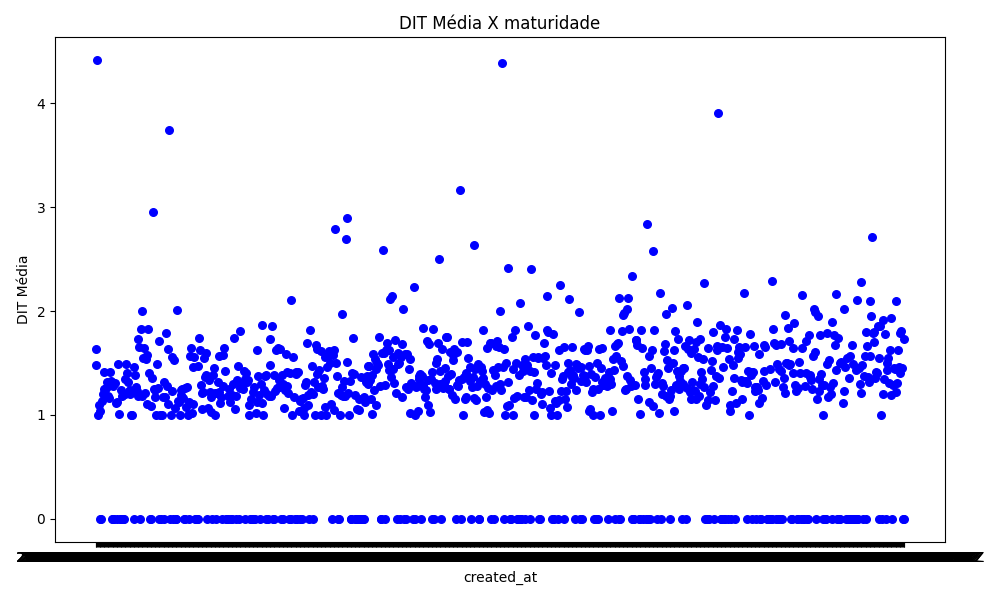
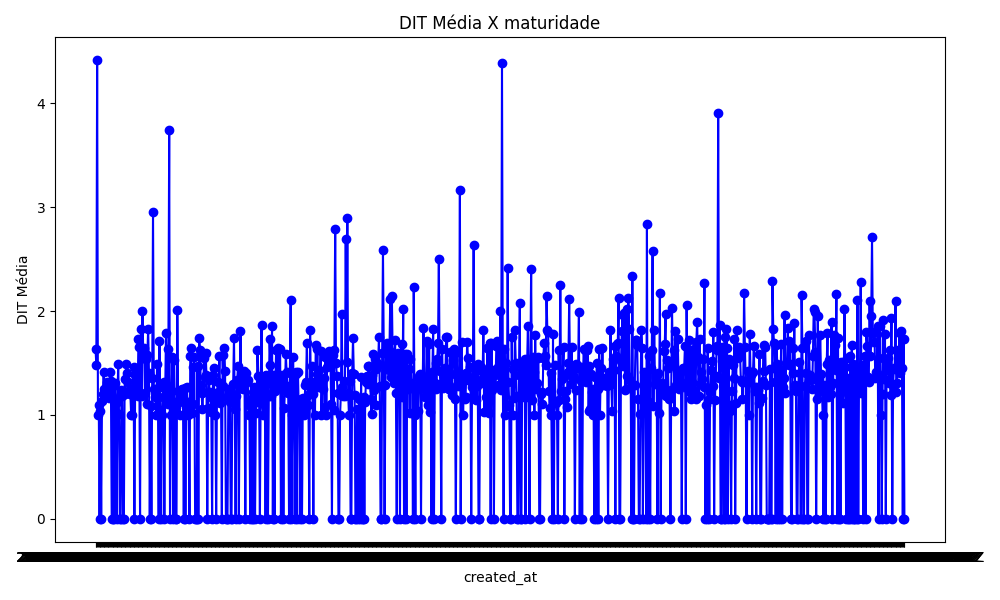
feat: updated graphs

Changed region(s): [[0.093, 0.15, 0.93, 0.87], [0.713, 0.18, 0.744, 0.21], [0.155, 0.21, 0.186, 0.24]]

diff --git a/plot/quality.py b/plot/quality.py
@@ -7,38 +7,30 @@ def quality_created_at(dataframe):
     cbo_media = dataframe['cbo_media']
     dit_media = dataframe['dit_media']
     lcom_media = dataframe['lcom_media']
-    loc_soma = dataframe['loc_soma']
 
-    plt.figure(figsize=(10, 6))
+    plt.figure(figsize=(15, 6))
 
     # cbo_media
-    plt.scatter(created_at, cbo_media, label='CBO Média', color='blue', marker='o', s=30)
+    plt.plot(created_at, cbo_media, label='CBO Média', color='blue')
 
-    plt.title('CBO Média X maturidade')
+    plt.title('Maturidade')
     plt.xlabel('created_at')
     plt.ylabel('CBO Média')
 
-    plt.tight_layout()
-
-    plt.savefig('graphs/cbo_media_maturidade.png')
-    plt.clf()
-
     # dit_media
-    plt.scatter(created_at, dit_media, label='DIT Média', color='blue', marker='o', s=30)
+    plt.plot(created_at, dit_media, label='DIT Média', color='red')
     plt.title('DIT Média X maturidade')
     plt.xlabel('created_at')
     plt.ylabel('DIT Média')
-    plt.tight_layout()
-    plt.savefig('graphs/dit_media_maturidade.png')
-    plt.clf()
 
     # lcom_media
-    plt.scatter(created_at, lcom_media, label='LCOM Média', color='blue', marker='o', s=30)
-    plt.title('LCOM Média X maturidade')
+    plt.plot(created_at, lcom_media, label='LCOM Média', color='green')
     plt.xlabel('created_at')
     plt.ylabel('LCOM Média')
+
+
     plt.tight_layout()
-    plt.savefig('graphs/lcom_media_maturidade.png')
+    plt.savefig('graphs/maturidade.png')
     plt.clf()
 
 def quality_loc(dataframe):
@@ -47,36 +39,30 @@ def quality_loc(dataframe):
     lcom_media = dataframe['lcom_media']
     loc_soma = dataframe['loc_soma']
 
-    plt.figure(figsize=(10, 6))
+    plt.figure(figsize=(15, 6))
 
     # cbo_media
-    plt.scatter(loc_soma, cbo_media, label='CBO Média', color='blue', marker='o', s=30)
+    fig, ax1 = plt.subplots(figsize=(15, 6))
+    ax2 = ax1.twinx()
+    ax3 = ax1.twinx()
 
-    plt.title('CBO Média X Tamanho')
-    plt.xlabel('loc')
-    plt.ylabel('CBO Média')
+    ax1.plot(loc_soma, cbo_media, label='CBO Média', color='blue')
+    ax2.plot(loc_soma, dit_media, label='DIT Média', color='red')
+    ax3.plot(loc_soma, lcom_media, label='LCOM Média', color='green')
+
+    ax1.set_xlabel('loc')
+    ax1.set_ylabel('CBO Média', color='blue')
+    ax2.set_ylabel('DIT Média', color='red')
+    ax3.set_ylabel('LCOM Média', color='green')
+
+    ax1.tick_params(axis='y', labelcolor='blue')
+    ax2.tick_params(axis='y', labelcolor='red')
+    ax3.tick_params(axis='y', labelcolor='green')
+
+    plt.title('CBO Média, DIT Média, LCOM Média X Tamanho')
 
     plt.tight_layout()
-
-    plt.savefig('graphs/cbo_media_tamanho.png')
-    plt.clf()
-
-    # dit_media
-    plt.scatter(loc_soma, dit_media, label='DIT Média', color='blue', marker='o', s=30)
-    plt.title('DIT Média X maturidade')
-    plt.xlabel('loc')
-    plt.ylabel('DIT Média')
-    plt.tight_layout()
-    plt.savefig('graphs/dit_media_tamanho.png')
-    plt.clf()
-
-    # lcom_media
-    plt.scatter(loc_soma, lcom_media, label='LCOM Média', color='blue', marker='o', s=30)
-    plt.title('LCOM Média X maturidade')
-    plt.xlabel('loc')
-    plt.ylabel('LCOM Média')
-    plt.tight_layout()
-    plt.savefig('graphs/lcom_media_tamanho.png')
+    plt.savefig('graphs/tamanho.png')
     plt.clf()
 
 def quality_releases(dataframe):
@@ -85,12 +71,12 @@ def quality_releases(dataframe):
     lcom_media = dataframe['lcom_media']
     releases = dataframe['releases']
 
-    plt.figure(figsize=(10, 6))
+    plt.figure(figsize=(15, 6))
 
     # cbo_media
-    plt.scatter(releases, cbo_media, label='CBO Média', color='blue', marker='o', s=30)
+    plt.plot(releases, cbo_media, label='CBO Média', color='blue')
 
-    plt.title('CBO Média X maturidade')
+    plt.title('CBO Média X atividade')
     plt.xlabel('releases')
     plt.ylabel('CBO Média')
 
@@ -100,8 +86,8 @@ def quality_releases(dataframe):
     plt.clf()
 
     # dit_media
-    plt.scatter(releases, dit_media, label='DIT Média', color='blue', marker='o', s=30)
-    plt.title('DIT Média X maturidade')
+    plt.plot(releases, dit_media, label='DIT Média', color='blue')
+    plt.title('DIT Média X atividade')
     plt.xlabel('releases')
     plt.ylabel('DIT Média')
     plt.tight_layout()
@@ -109,9 +95,9 @@ def quality_releases(dataframe):
     plt.clf()
 
     # lcom_media
-    plt.scatter(releases, lcom_media, label='LCOM Média', color='blue', marker='o', s=30)
-    plt.title('LCOM Média X maturidade')
-    plt.xlabel('created_at')
+    plt.plot(releases, lcom_media, label='LCOM Média', color='blue')
+    plt.title('LCOM Média X atividade')
+    plt.xlabel('releases')
     plt.ylabel('LCOM Média')
     plt.tight_layout()
     plt.savefig('graphs/lcom_media_releases.png')
@@ -123,12 +109,12 @@ def quality_stars(dataframe):
     dit_media = dataframe['dit_media']
     lcom_media = dataframe['lcom_media']
 
-    plt.figure(figsize=(10, 6))
+    plt.figure(figsize=(15, 6))
 
     # cbo_media
-    plt.scatter(stars, cbo_media, label='CBO Média', color='blue', marker='o', s=30)
+    plt.plot(stars, cbo_media, label='CBO Média', color='blue')
 
-    plt.title('CBO Média X maturidade')
+    plt.title('CBO Média X popularidade')
     plt.xlabel('stars')
     plt.ylabel('CBO Média')
 
@@ -138,8 +124,8 @@ def quality_stars(dataframe):
     plt.clf()
 
     # dit_media
-    plt.scatter(stars, dit_media, label='DIT Média', color='blue', marker='o', s=30)
-    plt.title('DIT Média X maturidade')
+    plt.plot(stars, dit_media, label='DIT Média', color='blue')
+    plt.title('DIT Média X popularidade')
     plt.xlabel('stars')
     plt.ylabel('DIT Média')
     plt.tight_layout()
@@ -147,11 +133,142 @@ def quality_stars(dataframe):
     plt.clf()
 
     # lcom_media
-    plt.scatter(stars, lcom_media, label='LCOM Média', color='blue', marker='o', s=30)
-    plt.title('LCOM Média X maturidade')
+    plt.plot(stars, lcom_media, label='LCOM Média', color='blue')
+    plt.title('LCOM Média X popularidade')
     plt.xlabel('stars')
     plt.ylabel('LCOM Média')
     plt.tight_layout()
     plt.savefig('graphs/lcom_media_stars.png')
     plt.clf()
-    
+
+def quality_loc_aggregate(dataframe):
+    dataframe = dataframe.sort_values(by='loc_soma')
+
+    cbo_media = dataframe['cbo_media']
+    dit_media = dataframe['dit_media']
+    lcom_media = dataframe['lcom_media']
+    loc_soma = dataframe['loc_soma']
+
+    plt.figure(figsize=(15, 6))
+
+    fig, ax1 = plt.subplots(figsize=(15, 6))
+    ax2 = ax1.twinx()
+    ax3 = ax1.twinx()
+
+    ax1.plot(loc_soma, cbo_media, label='CBO Média', color='blue')
+    ax2.plot(loc_soma, dit_media, label='DIT Média', color='red')
+    ax3.plot(loc_soma, lcom_media, label='LCOM Média', color='green')
+
+    ax1.set_xlabel('loc')
+    ax1.set_ylabel('CBO Média', color='blue')
+    ax2.set_ylabel('DIT Média', color='red')
+    ax3.set_ylabel('LCOM Média', color='green')
+
+    ax1.tick_params(axis='y', labelcolor='blue')
+    ax2.tick_params(axis='y', labelcolor='red')
+    ax3.tick_params(axis='y', labelcolor='green')
+
+    plt.title('CBO Média, DIT Média, LCOM Média X Tamanho')
+
+    plt.tight_layout()
+    plt.savefig('graphs/tamanho.png')
+    plt.clf()
+
+def quality_created_at_aggregate(dataframe):
+    dataframe = dataframe.sort_values(by='created_at')
+
+    cbo_media = dataframe['cbo_media']
+    dit_media = dataframe['dit_media']
+    lcom_media = dataframe['lcom_media']
+    created_at = dataframe['created_at']
+
+    plt.figure(figsize=(15, 6))
+
+    fig, ax1 = plt.subplots(figsize=(15, 6))
+    ax2 = ax1.twinx()
+    ax3 = ax1.twinx()
+
+    ax1.plot(created_at, cbo_media, label='CBO Média', color='blue')
+    ax2.plot(created_at, dit_media, label='DIT Média', color='red')
+    ax3.plot(created_at, lcom_media, label='LCOM Média', color='green')
+
+    ax1.set_xlabel('created_at')
+    ax1.set_ylabel('CBO Média', color='blue')
+    ax2.set_ylabel('DIT Média', color='red')
+    ax3.set_ylabel('LCOM Média', color='green')
+
+    ax1.tick_params(axis='y', labelcolor='blue')
+    ax2.tick_params(axis='y', labelcolor='red')
+    ax3.tick_params(axis='y', labelcolor='green')
+
+    plt.title('CBO Média, DIT Média, LCOM Média X Maturidade')
+
+    plt.tight_layout()
+    plt.savefig('graphs/maturidade.png')
+    plt.clf()
+
+def quality_stars_aggregate(dataframe):
+    dataframe = dataframe.sort_values(by='stars')
+
+    cbo_media = dataframe['cbo_media']
+    dit_media = dataframe['dit_media']
+    lcom_media = dataframe['lcom_media']
+    stars = dataframe['stars']
+
+    plt.figure(figsize=(15, 6))
+
+    fig, ax1 = plt.subplots(figsize=(15, 6))
+    ax2 = ax1.twinx()
+    ax3 = ax1.twinx()
+
+    ax1.plot(stars, cbo_media, label='CBO Média', color='blue')
+    ax2.plot(stars, dit_media, label='DIT Média', color='red')
+    ax3.plot(stars, lcom_media, label='LCOM Média', color='green')
+
+    ax1.set_xlabel('stars')
+    ax1.set_ylabel('CBO Média', color='blue')
+    ax2.set_ylabel('DIT Média', color='red')
+    ax3.set_ylabel('LCOM Média', color='green')
+
+    ax1.tick_params(axis='y', labelcolor='blue')
+    ax2.tick_params(axis='y', labelcolor='red')
+    ax3.tick_params(axis='y', labelcolor='green')
+
+    plt.title('CBO Média, DIT Média, LCOM Média X Popularidade')
+
+    plt.tight_layout()
+    plt.savefig('graphs/popularidade.png')
+    plt.clf()
+
+def quality_releases_aggregate(dataframe):
+    dataframe = dataframe.sort_values(by='releases')
+
+    cbo_media = dataframe['cbo_media']
+    dit_media = dataframe['dit_media']
+    lcom_media = dataframe['lcom_media']
+    releases = dataframe['releases']
+
+    plt.figure(figsize=(15, 6))
+
+    fig, ax1 = plt.subplots(figsize=(15, 6))
+    ax2 = ax1.twinx()
+    ax3 = ax1.twinx()
+
+    ax1.plot(releases, cbo_media, label='CBO Média', color='blue')
+    ax2.plot(releases, dit_media, label='DIT Média', color='red')
+    ax3.plot(releases, lcom_media, label='LCOM Média', color='green')
+
+    ax1.set_xlabel('releases')
+    ax1.set_ylabel('CBO Média', color='blue')
+    ax2.set_ylabel('DIT Média', color='red')
+    ax3.set_ylabel('LCOM Média', color='green')
+
+    ax1.tick_params(axis='y', labelcolor='blue')
+    ax2.tick_params(axis='y', labelcolor='red')
+    ax3.tick_params(axis='y', labelcolor='green')
+
+    plt.title('CBO Média, DIT Média, LCOM Média X Atividade')
+
+    plt.tight_layout()
+    plt.savefig('graphs/releases.png')
+    plt.clf()

diff --git a/plot/main_plot.py b/plot/main_plot.py
@@ -6,11 +6,18 @@ import matplotlib.pyplot as plt
 
 if __name__ == "__main__":
     dataframe = pd.read_csv("final_results.csv")
-    dataframe = dataframe.sort_values(by='age')
+    dataframe = dataframe.sort_values(by='loc_soma')
+
+    dataframe = dataframe[dataframe['cbo_media'] != 0]
+
+    summary(dataframe)
 
     quality_created_at(dataframe)
     quality_releases(dataframe)
     quality_stars(dataframe)
     quality_loc(dataframe)
-    summary(dataframe)
 
+    quality_created_at_aggregate(dataframe)
+    quality_releases_aggregate(dataframe)
+    quality_stars_aggregate(dataframe)
+    quality_loc_aggregate(dataframe)

diff --git a/main_metrics.py b/main_metrics.py
@@ -100,6 +100,3 @@ if __name__ == "__main__":
     
     new_data = it_repos()
     add_data_to_csv(new_data)
-
-    
-    
